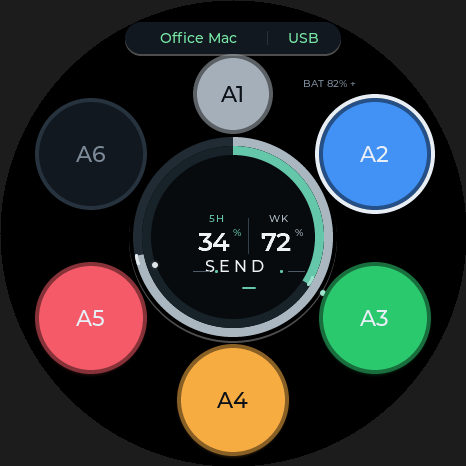
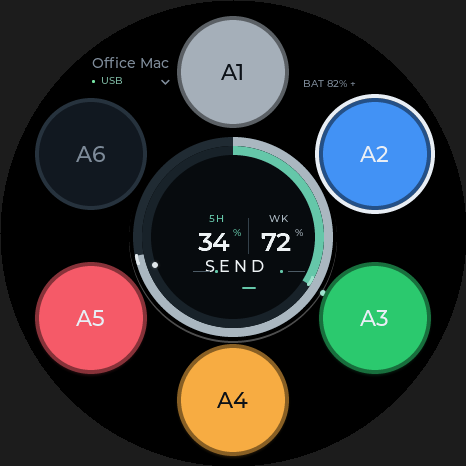
fix: integrate Mac connection status into the original circular UI

Changed region(s): [[0.1803, 0.03, 0.7511, 0.3004]]

diff --git a/main/apps/app_codex_micro/view/view.cpp b/main/apps/app_codex_micro/view/view.cpp
@@ -53,7 +53,7 @@ struct Point {
 };
 
 constexpr std::array<Point, 6> kAgentCenters = {
-    Point{233, 94}, Point{375, 154}, Point{375, 318}, Point{233, 400}, Point{91, 318}, Point{91, 154},
+    Point{233, 72}, Point{375, 154}, Point{375, 318}, Point{233, 400}, Point{91, 318}, Point{91, 154},
 };
 
 uint8_t colorChannel(uint32_t color, int shift)
@@ -586,7 +586,7 @@ bool DashboardView::init(lv_obj_t* parent)
     for (size_t i = 0; i < _agent_buttons.size(); ++i) {
         auto* button      = lv_button_create(_root);
         _agent_buttons[i] = button;
-        const int32_t diameter = i == 0 ? 80 : 112;
+        constexpr int32_t diameter = 112;
         lv_obj_set_size(button, diameter, diameter);
         lv_obj_set_pos(button, kAgentCenters[i].x - diameter / 2, kAgentCenters[i].y - diameter / 2);
         lv_obj_set_style_radius(button, LV_RADIUS_CIRCLE, LV_PART_MAIN);
@@ -622,31 +622,34 @@ bool DashboardView::init(lv_obj_t* parent)
         lv_obj_center(label);
     }
 
-    _connection_button = lv_button_create(_root);
-    lv_obj_set_size(_connection_button, 216, 32);
-    lv_obj_set_pos(_connection_button, 125, 22);
-    lv_obj_set_style_radius(_connection_button, 16, LV_PART_MAIN);
-    lv_obj_set_style_bg_color(_connection_button, lv_color_hex(kPanelColor), LV_PART_MAIN);
-    lv_obj_set_style_border_width(_connection_button, 0, LV_PART_MAIN);
-    lv_obj_set_style_pad_all(_connection_button, 0, LV_PART_MAIN);
+    // Keep the original six equally sized Agent circles. Connection details
+    // sit quietly in the unused upper-left wedge of the round display.
+    _connection_button = lv_obj_create(_root);
+    lv_obj_remove_style_all(_connection_button);
+    lv_obj_set_size(_connection_button, 84, 39);
+    lv_obj_set_pos(_connection_button, 88, 55);
+    lv_obj_add_flag(_connection_button, LV_OBJ_FLAG_CLICKABLE);
     lv_obj_clear_flag(_connection_button, LV_OBJ_FLAG_SCROLLABLE);
     lv_obj_clear_flag(_connection_button, LV_OBJ_FLAG_GESTURE_BUBBLE);
     lv_obj_add_event_cb(_connection_button, handleDeviceMenuEvent, LV_EVENT_CLICKED, this);
     _connection_label = lv_label_create(_connection_button);
     makeTransparentLabel(_connection_label, &lv_font_montserrat_14, kSecondaryText);
-    lv_obj_set_width(_connection_label, 120);
-    lv_label_set_long_mode(_connection_label, LV_LABEL_LONG_SCROLL_CIRCULAR);
-    lv_obj_set_style_text_align(_connection_label, LV_TEXT_ALIGN_CENTER, LV_PART_MAIN);
+    lv_obj_set_size(_connection_label, 78, lv_font_get_line_height(&lv_font_montserrat_14));
+    lv_label_set_long_mode(_connection_label, LV_LABEL_LONG_DOT);
     lv_label_set_text(_connection_label, "Choose Mac");
-    lv_obj_align(_connection_label, LV_ALIGN_LEFT_MID, 14, 0);
-    auto* connection_divider = makeDecorativeObject(_connection_button, 1, 14, kTrackColor);
-    lv_obj_set_pos(connection_divider, 142, 9);
+    lv_obj_set_pos(_connection_label, 4, 0);
+    _connection_dot = makeDecorativeObject(_connection_button, 3, 3, kSecondaryText);
+    lv_obj_set_style_radius(_connection_dot, LV_RADIUS_CIRCLE, LV_PART_MAIN);
+    lv_obj_set_pos(_connection_dot, 4, 25);
     _transport_label = lv_label_create(_connection_button);
-    makeTransparentLabel(_transport_label, &lv_font_montserrat_14, kSecondaryText);
+    makeTransparentLabel(_transport_label, &lv_font_montserrat_10, kSecondaryText);
     lv_obj_set_width(_transport_label, 58);
-    lv_obj_set_style_text_align(_transport_label, LV_TEXT_ALIGN_CENTER, LV_PART_MAIN);
     lv_label_set_text(_transport_label, "Offline");
-    lv_obj_align(_transport_label, LV_ALIGN_RIGHT_MID, -8, 0);
+    lv_obj_set_pos(_transport_label, 13, 20);
+    auto* connection_chevron = lv_label_create(_connection_button);
+    makeTransparentLabel(connection_chevron, &lv_font_montserrat_10, kSecondaryText);
+    lv_label_set_text(connection_chevron, LV_SYMBOL_DOWN);
+    lv_obj_set_pos(connection_chevron, 73, 22);
 
     _battery_label = lv_label_create(_root);
     makeTransparentLabel(_battery_label, &lv_font_montserrat_10, kSecondaryText);
@@ -668,9 +671,10 @@ void DashboardView::update(const DashboardModel& model)
     }
 
     lv_label_set_text(_connection_label, model.connectionText.c_str());
-    lv_obj_set_style_text_color(_connection_label, lv_color_hex(model.connectionColor), LV_PART_MAIN);
     lv_label_set_text(_transport_label, model.transportText.c_str());
-    lv_obj_set_style_text_color(_transport_label, lv_color_hex(model.connectionColor), LV_PART_MAIN);
+    lv_obj_set_style_text_color(_transport_label,
+                                lv_color_hex(blendColor(kSecondaryText, model.connectionColor, 0.45f)), LV_PART_MAIN);
+    lv_obj_set_style_bg_color(_connection_dot, lv_color_hex(model.connectionColor), LV_PART_MAIN);
     lv_label_set_text(_battery_label, model.batteryText.c_str());
 
     const auto same_host = [](const codex_micro::HostInfo& left, const codex_micro::HostInfo& right) {
@@ -774,7 +778,7 @@ void DashboardView::handleCircleHitTest(lv_event_t* event)
     const int32_t center_y = (coordinates.y1 + coordinates.y2 + 1) / 2;
     const int32_t delta_x  = info->point->x - center_x;
     const int32_t delta_y  = info->point->y - center_y;
-    const int32_t radius   = binding->isSend ? 104 : (binding->agent == 0 ? 44 : 60);
+    const int32_t radius   = binding->isSend ? 104 : 60;
     info->res              = delta_x * delta_x + delta_y * delta_y <= radius * radius;
 }
 

diff --git a/tests/lvgl_host_picker_qa/main.cpp b/tests/lvgl_host_picker_qa/main.cpp
@@ -133,9 +133,23 @@ int main(int argc, char** argv)
     view.update(model);
     save(output, "dashboard");
 
-    tap(225, 38);
-    assert(view.deviceMenuOpen());
+    // A1 retains the original position and hit area; connection metadata must
+    // not cover it or turn a normal agent tap into a device-picker action.
     TouchIntent intent;
+    tap(233, 72);
+    assert(view.popIntent(intent) && intent.type == TouchIntentType::AgentPress && intent.agent == 0);
+    assert(view.popIntent(intent) && intent.type == TouchIntentType::AgentRelease && intent.agent == 0);
+    assert(!view.popIntent(intent));
+
+    auto* connectionName = findLabel(lv_screen_active(), model.connectionText.c_str());
+    assert(connectionName != nullptr);
+    const auto tapConnection = [connectionName] {
+        lv_area_t area;
+        lv_obj_get_coords(lv_obj_get_parent(connectionName), &area);
+        tap((area.x1 + area.x2) / 2, (area.y1 + area.y2) / 2);
+    };
+    tapConnection();
+    assert(view.deviceMenuOpen());
     assert(view.popIntent(intent) && intent.type == TouchIntentType::DeviceMenuOpened);
     assert(!view.popIntent(intent));
 
@@ -199,13 +213,14 @@ int main(int argc, char** argv)
     model.connectionColor = 0xFF7685;
     view.update(model);
     save(output, "dashboard-offline-long-name");
-    auto* longName = findLabel(lv_screen_active(), model.connectionText.c_str());
-    assert(longName != nullptr);
-    assert(findLabel(lv_obj_get_parent(longName), "Offline") != nullptr);
+    // DOT mode replaces the displayed tail in LVGL's text buffer; the label
+    // itself must remain one line and leave its separate status visible.
+    assert(lv_obj_get_height(connectionName) == lv_font_get_line_height(&lv_font_montserrat_14));
+    assert(findLabel(lv_obj_get_parent(connectionName), "Offline") != nullptr);
 
     model.hosts.clear();
     view.update(model);
-    tap(225, 38);
+    tapConnection();
     assert(view.deviceMenuOpen());
     save(output, "devices-empty");
     std::puts("LVGL host picker: real pointer input, modal isolation, offline selection, scroll and old-touch cancellation PASS");

diff --git a/tests/firmware_integration_contract_test.py b/tests/firmware_integration_contract_test.py
@@ -397,7 +397,8 @@ def test_flash_capsule_contract(root: Path, contract: Contract) -> None:
 
 
 def test_codex_ui_source_fingerprint(root: Path, contract: Contract) -> None:
-    # User-authorized Codex host switching updates the UI/controller baseline.
+    # User-authorized host switching and its visual integration update this
+    # UI/controller baseline, including restoration of the equal Agent circles.
     # Keep a fingerprint boundary for later, unrelated Friday changes. Native
     # LVGL QA and host-selection tests validate the new behavior independently.
     expected = {
@@ -406,9 +407,9 @@ def test_codex_ui_source_fingerprint(root: Path, contract: Contract) -> None:
         "main/apps/app_codex_micro/app_codex_micro.h":
[1 lines of base64/hex data omitted]
         "main/apps/app_codex_micro/view/view.cpp":
[2 lines of base64/hex data omitted]
         "main/apps/app_codex_micro/view/view.h":
[2 lines of base64/hex data omitted]
     }
     for relative, digest in expected.items():
         contract.require(

diff --git a/main/apps/app_codex_micro/view/view.h b/main/apps/app_codex_micro/view/view.h
@@ -123,6 +123,7 @@ private:
     lv_obj_t* _connection_label = nullptr;
     lv_obj_t* _transport_label = nullptr;
     lv_obj_t* _connection_button = nullptr;
+    lv_obj_t* _connection_dot = nullptr;
     lv_obj_t* _device_overlay = nullptr;
     lv_obj_t* _device_list = nullptr;
     lv_obj_t* _device_menu_message = nullptr;
